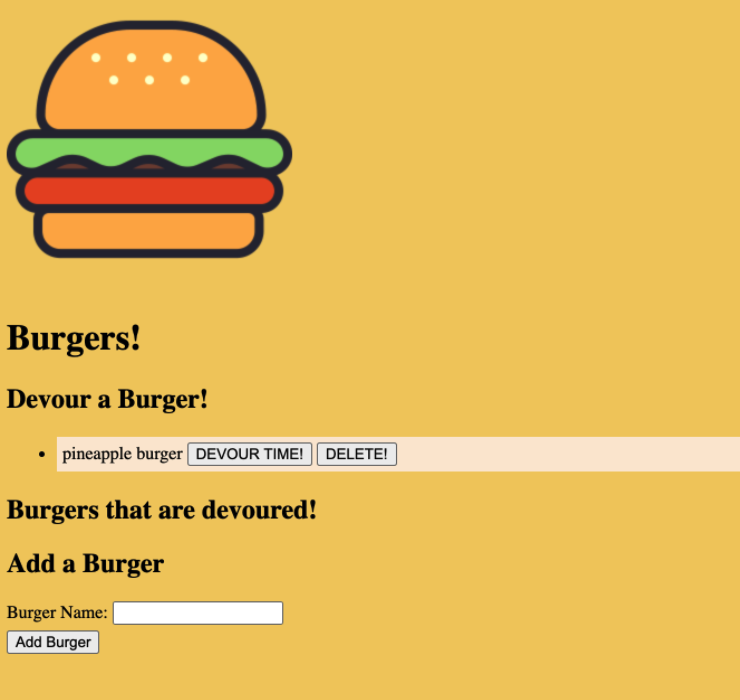
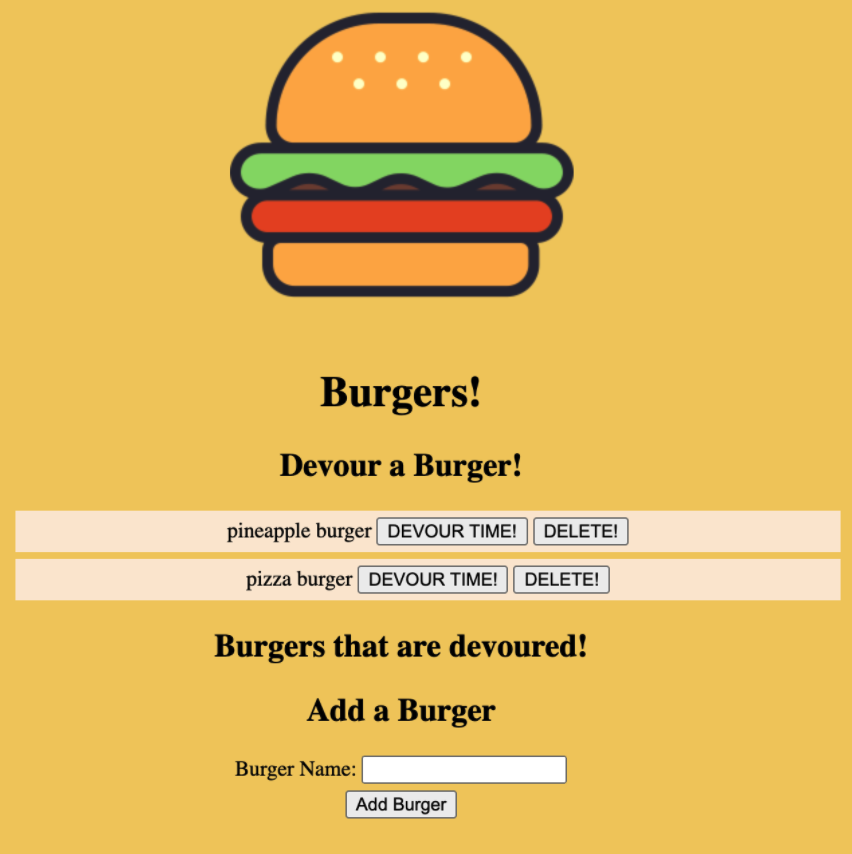
updated image

diff --git a/public/assets/css/burger_style.css b/public/assets/css/burger_style.css
@@ -1,10 +1,12 @@
 body {
   background-color: rgb(240, 208, 104);
+  text-align: center;
 }
 
 li {
   padding: 5px;
   margin: 5px;
+  list-style-type: none;
   background: #faebd7;
 }
 
